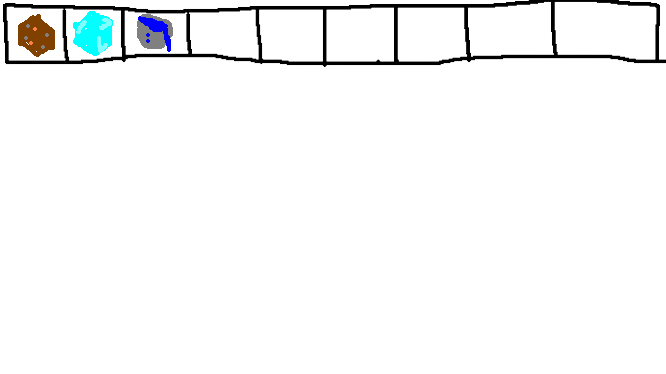
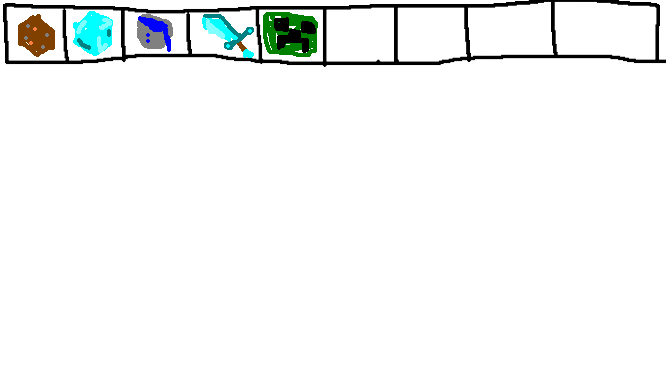
project work

Changed region(s): [[0.3003, 0.0294, 0.4805, 0.1765], [0.1201, 0.1176, 0.1502, 0.1471]]

diff --git a/project/Project.java b/project/Project.java
@@ -15,6 +15,8 @@ public class Project extends PApplet{
         
         blocks = new ArrayList<Block>();
         
+        mobs = new ArrayList<Mob>();
+        
         for(int i = 0; i <10; i++){
             for(int j = 0; j <10; j++){
                 for(int k = 0; k <10; k++){
@@ -53,6 +55,12 @@ public class Project extends PApplet{
         waterB = loadImage("WaterB.png");
         waterB.resize(width/8, width/8);
         
+        diamondSword = loadImage("DiamondSword.png");
+        diamondSword.resize(width/5, width/5);
+        
+        creeper =loadImage("Creeper.png");
+        creeper.resize(width/6, width/6);
+        
         
         
         
@@ -69,12 +77,12 @@ public class Project extends PApplet{
         position.y = size * blockPositionY;
         position.z = size * blockPositionZ;
             
-        Block b = new Block(this, position, size, image);
+        Block b = new Block(this, position, size, image, 0);
         blocks.add(b);
     }
+
     
     public void draw(){
-
         
         if(gameState.equals("startGame")){
             startGame();
@@ -83,6 +91,7 @@ public class Project extends PApplet{
         }else if(gameState.equals("Game")){
             game();
         }
+        
     }
     public void startGame(){
         
@@ -96,7 +105,6 @@ public class Project extends PApplet{
             
         }else if(imageSelect == 2){
             image(playSelect, width/2, height/4 * 3);
-            
         }
         
         if(imageSelect2 == 1){
@@ -115,12 +123,29 @@ public class Project extends PApplet{
         targetPos.add(cameraVel);
         
         
+        
         camera(cameraPos.x, cameraPos.y, cameraPos.z, targetPos.x, targetPos.y, targetPos.z,0,1,0);
         
+        ArrayList<Block> newBlocks = new ArrayList<Block>();
         for(Block b: blocks){
+            
             pushMatrix();
             b.display();
+            if(b.getWaterCount() > 0 && frameCount%60 == 0){
+                PVector positionNew = new PVector(b.getX(), b.getY() + 100, b.getZ());
+                Block w = new Block(this, positionNew, 100, water, b.getWaterCount() -1);
+                newBlocks.add(w);
+                b.setWaterCount(0);
+            }
             popMatrix();
+        }
+        
+        for(Block n: newBlocks){
+            blocks.add(n);
+
+        }
+        for(Mob m: mobs){
+            m.display();
         }
         
         /*
@@ -158,6 +183,10 @@ public class Project extends PApplet{
             image(diamond, width/5*4, height/2);
         }else if(blockTexture == 3){
             image(waterB, width/5*4, height/2);
+        }else if(blockTexture == 4){
+            image(diamondSword, width/3*2, height/7*3);
+        }else if(blockTexture == 5){
+            image(creeper, width/6*4+100, height/2);
         }
         
         image(hand, width/3*2, height/2);
@@ -191,19 +220,30 @@ public class Project extends PApplet{
             positionNew.y += dy;
             positionNew.z += headingBlock.y;
             
-            if(mouseButton == LEFT){
+            if(mouseButton == RIGHT){
                 if(blockTexture == 1){
-                    Block b = new Block(this, positionNew, 100, dirt);
+                    Block b = new Block(this, positionNew, 100, dirt,0);
                     blocks.add(b);
                 }else if(blockTexture == 2){
-                    Block b = new Block(this, positionNew, 100, diamond);
+                    Block b = new Block(this, positionNew, 100, diamond,0);
                     blocks.add(b);
                 }else if(blockTexture == 3){
-                    Block b = new Block(this, positionNew, 100, water);
+                    Block b = new Block(this, positionNew, 100, water, 5);
                     blocks.add(b);
+                    //waterFlow(positionNew);
+                }else if(blockTexture == 4){
+                    for(Mob m: mobs){
+                        if(dist(positionNew.x, positionNew.y, positionNew. z, m.getX(), m.getY(), m.getZ()) < 50){
+                            m.update();
+                            m.setHealth(m.getHealth() - 1);
+                        }
+                    }
+                }else if(blockTexture == 5){
+                    Mob m = new Mob(this, positionNew, 10);
+                    mobs.add(m);
                 }
             }
-            if(mouseButton == RIGHT){
+            if(mouseButton == LEFT){
                 for(int i = blocks.size()-1; i >= 0; i--){
                     Block d = blocks.get(i);
                     if(dist(positionNew.x, positionNew.y, positionNew.z, d.getX(), d.getY(),  d.getZ()) < 50){
@@ -373,20 +413,59 @@ public class Project extends PApplet{
             selectionX = width/2 + 100;
             
         }
+        if(key == '4'){
+            blockTexture = 4;
+            selectionX = width/2 + 170;
+        }
+        if(key == '5'){
+            blockTexture = 5;
+            selectionX = width/2 +240;
+        }
+        if(key == '6'){
+            blockTexture = 6;
+            selectionX = width/2 +310;
+        }
+        if(key == '7'){
+            blockTexture = 7;
+            selectionX = width/2 +380;
+        }
+        if(key == '8'){
+            blockTexture = 8;
+            selectionX = width/2 +450;
+        }
+        if(key == '9'){
+            blockTexture = 9;
+            selectionX = width/2 + 520;
+        }
     }
+    /*public void waterFlow(PVector position){
+        int startTime = millis();
+        for(int i = 0; i < 100; i+=10){
+            if(millis() - startTime >= 500){
+                position.y += i;
+                Block b = new Block(this, position, 100, water);
+                blocks.add(b);
+                startTime = millis();
+                
+            }
+        }
+        
+    }*/
     
     private String gameState = "startGame";
     private ArrayList<Block> blocks;
-    private PImage minecraft, play, quitGame, playSelect, quitGameSelect, dirt, diamond, water, crossHair, hotbar, selection, inventory, hand, waterB;
+    private ArrayList<Mob> mobs;
+    private PVector mobPosition;
+    private PImage minecraft, play, quitGame, playSelect, quitGameSelect, dirt, diamond, water, crossHair, hotbar, selection, inventory, hand, waterB, diamondSword, creeper;
     private String currentKey = "Down left";
     private int imageSelect = 2; 
     private int imageSelect2 = 1;
-    private int camSpeed = 2;
+    private int camSpeed = 3;
     private PVector cameraPos = new PVector(-10,-10,10);
     private PVector targetPos = new PVector(-10,-10,0);
     private PVector cameraVel = new PVector(0, 0, 0);
     private PVector heading = new PVector(0,-3);
-    private int prevMouseX, prevMouseY;
+    //private int prevMouseX, prevMouseY;
     private float rotationAngle;
     private int blockTexture = 1;
     private float selectionX = width/2;

diff --git a/project/Mob.java b/project/Mob.java
@@ -1,0 +1,57 @@
+import processing.core.*;
+
+public class Mob{
+    public Mob(PApplet p, PVector position, int healthBar){
+        this.p = p;
+        this.position = position.copy();
+        this.healthBar = healthBar;
+        alpha = 255;
+        from = p.color(25, 163, 15);
+        to = p.color(227,0,0);
+        inter = from;
+    }
+    
+    public float getX(){return position.x;}
+    public float getY(){return position.y;}
+    public float getZ(){return position.z;}
+    public int getHealth(){return healthBar;}
+    
+    public void setHealth(int healthBar){
+        this.healthBar = healthBar;
+    }
+
+    
+    public void display(){
+        p.noStroke();
+        p.fill(inter,alpha);
+            p.pushMatrix();
+                p.translate(position.x, position.y, position.z);
+                p.box(50);
+            p.popMatrix();
+            p.pushMatrix();
+                p.translate(position.x, position.y+50,position.z);
+                p.box(50,100,25);
+            p.popMatrix();
+            p.pushMatrix();
+                p.translate(position.x,position.y+112,position.z+25);
+                p.box(50,25,25);
+            p.popMatrix();
+            p.pushMatrix();
+                p.translate(position.x,position.y+112,position.z-25);
+                p.box(50,25,25);
+            p.popMatrix();;
+        if(healthBar <= 0){
+            alpha = 0;
+        }
+        
+    }
+    public void update(){
+        inter = p.lerpColor(from,to, 1-healthBar/10.0f);
+     
+    }
+    private PApplet p;
+    private PVector position;
+    private int from, to, inter;
+    private int healthBar;
+    private int alpha;
+}

diff --git a/project/Block.java b/project/Block.java
@@ -1,11 +1,12 @@
 import processing.core.*;
 
 public class Block{
-    public Block(PApplet p, PVector position, float size, PImage texture){
+    public Block(PApplet p, PVector position, float size, PImage texture, int waterCount){
         this.p = p;
         this.position = position.copy();
         this.size = size;
         this.texture = texture;
+        this.waterCount = waterCount;
     }
     public void display(){
         p.pushMatrix();
@@ -17,6 +18,12 @@ public class Block{
     public float getX(){return position.x;}
     public float getY(){return position.y;}
     public float getZ(){return position.z;}
+    public int getWaterCount(){return waterCount;}
+    
+    public void setWaterCount(int waterCount){
+        this.waterCount = waterCount;
+        
+    } 
     
     private void drawBox(){
         p.noStroke();
@@ -65,5 +72,6 @@ public class Block{
     private PVector position;
     private float size;
     private PImage texture;
+    private int waterCount;
     
 }
